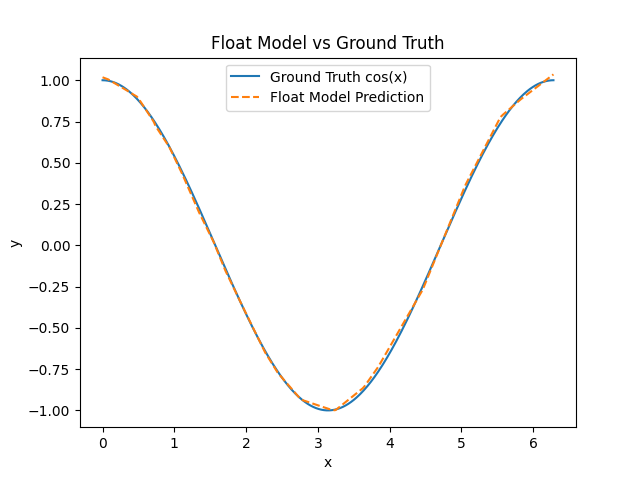
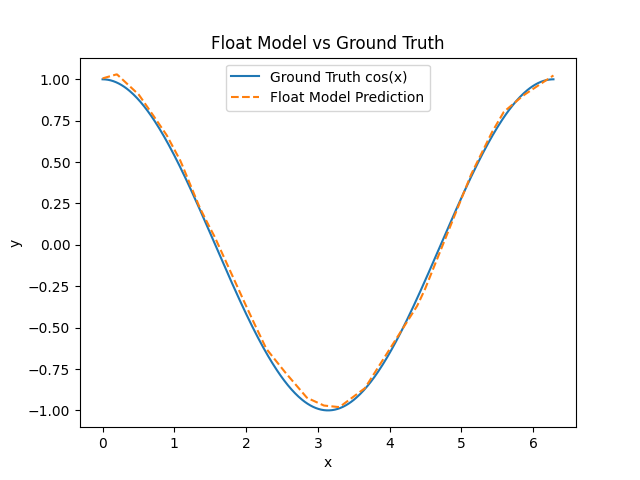
Update binary files: cosine_model.keras, data_splits.npz, float_predictions.png, and loss_curve.png

diff --git a/quantize_cosine.py b/quantize_cosine.py
@@ -1,0 +1,178 @@
+"""
+Member 2: TFLite conversion, full int8 quantization, evaluation, and comparison plots.
+Requires train_cosine.py outputs: cosine_model.keras, data_splits.npz
+"""
+import os
+os.environ["TF_CPP_MIN_LOG_LEVEL"] = "3"
+
+import numpy as np
+import matplotlib
+matplotlib.use("Agg")
+import matplotlib.pyplot as plt
+import tensorflow as tf
+
+MODEL_PATH = "cosine_model.keras"
+DATA_PATH = "data_splits.npz"
+FLOAT_TFLITE_PATH = "cosine_float.tflite"
+INT8_TFLITE_PATH = "cosine_int8.tflite"
+PLOTS_DIR = "plots"
+REPRESENTATIVE_SAMPLES = 100
+
+
+def load_artifacts():
+    if not os.path.isfile(MODEL_PATH):
+        raise FileNotFoundError(
+            f"{MODEL_PATH} not found. Run train_cosine.py first (Member 1)."
+        )
+    if not os.path.isfile(DATA_PATH):
+        raise FileNotFoundError(
+            f"{DATA_PATH} not found. Run train_cosine.py first (Member 1)."
+        )
+    model = tf.keras.models.load_model(MODEL_PATH)
+    data = np.load(DATA_PATH)
+    return model, data["x_train"], data["x_test"], data["y_test"]
+
+
+def convert_float_tflite(model):
+    converter = tf.lite.TFLiteConverter.from_keras_model(model)
+    return converter.convert()
+
+
+def convert_int8_tflite(model, x_train):
+    def representative_dataset():
+        indices = np.linspace(0, len(x_train) - 1, REPRESENTATIVE_SAMPLES, dtype=int)
+        for idx in indices:
+            sample = np.array([[x_train[idx]]], dtype=np.float32)
+            yield [sample]
+
+    converter = tf.lite.TFLiteConverter.from_keras_model(model)
+    converter.optimizations = [tf.lite.Optimize.DEFAULT]
+    converter.representative_dataset = representative_dataset
+    converter.target_spec.supported_ops = [tf.lite.OpsSet.TFLITE_BUILTINS_INT8]
+    converter.inference_input_type = tf.int8
+    converter.inference_output_type = tf.int8
+    return converter.convert()
+
+
+def run_interpreter(tflite_bytes, x_inputs):
+    interpreter = tf.lite.Interpreter(model_content=tflite_bytes)
+    interpreter.allocate_tensors()
+    input_details = interpreter.get_input_details()
+    output_details = interpreter.get_output_details()
+
+    in_scale, in_zero = input_details[0]["quantization"]
+    out_scale, out_zero = output_details[0]["quantization"]
+    is_quantized = input_details[0]["dtype"] == np.int8
+
+    predictions = []
+    for x in x_inputs:
+        x_arr = np.array([[x]], dtype=np.float32)
+        if is_quantized:
+            x_q = np.round(x_arr / in_scale + in_zero).astype(np.int8)
+            interpreter.set_tensor(input_details[0]["index"], x_q)
+        else:
+            interpreter.set_tensor(input_details[0]["index"], x_arr.astype(np.float32))
+
+        interpreter.invoke()
+        out = interpreter.get_tensor(output_details[0]["index"])
+        if is_quantized:
+            out = (out.astype(np.float32) - out_zero) * out_scale
+        predictions.append(float(out.flatten()[0]))
+
+    return np.array(predictions), {
+        "input_scale": in_scale,
+        "input_zero_point": in_zero,
+        "output_scale": out_scale,
+        "output_zero_point": out_zero,
+        "quantized": is_quantized,
+    }
+
+
+def main():
+    os.makedirs(PLOTS_DIR, exist_ok=True)
+    model, x_train, x_test, y_test = load_artifacts()
+
+    print("Converting Keras model to float TFLite...")
+    float_tflite = convert_float_tflite(model)
+    with open(FLOAT_TFLITE_PATH, "wb") as f:
+        f.write(float_tflite)
+    float_size = os.path.getsize(FLOAT_TFLITE_PATH)
+    print(f"Saved {FLOAT_TFLITE_PATH} ({float_size:,} bytes)")
+
+    print("Converting to full int8 TFLite (post-training quantization)...")
+    int8_tflite = convert_int8_tflite(model, x_train)
+    with open(INT8_TFLITE_PATH, "wb") as f:
+        f.write(int8_tflite)
+    int8_size = os.path.getsize(INT8_TFLITE_PATH)
+    print(f"Saved {INT8_TFLITE_PATH} ({int8_size:,} bytes)")
+    reduction = (1 - int8_size / float_size) * 100
+    print(f"Size reduction (float -> int8): {reduction:.1f}%")
+
+    print("\nEvaluating on held-out test set...")
+    y_pred_float, _ = run_interpreter(float_tflite, x_test)
+    y_pred_int8, int8_qparams = run_interpreter(int8_tflite, x_test)
+
+    mae_float = np.mean(np.abs(y_pred_float - y_test))
+    mae_int8 = np.mean(np.abs(y_pred_int8 - y_test))
+    mse_int8 = np.mean((y_pred_int8 - y_test) ** 2)
+
+    print(f"Float TFLite test MAE: {mae_float:.4f}")
+    print(f"Int8 TFLite test MAE:  {mae_int8:.4f}")
+    print(f"Int8 TFLite test MSE:  {mse_int8:.4f}")
+    print(
+        f"Int8 quantization params — "
+        f"input scale={int8_qparams['input_scale']:.6f}, "
+        f"input zero_point={int8_qparams['input_zero_point']}, "
+        f"output scale={int8_qparams['output_scale']:.6f}, "
+        f"output zero_point={int8_qparams['output_zero_point']}"
+    )
+
+    print("\nGenerating three-curve comparison plot...")
+    x_dense = np.linspace(0, 2 * np.pi, 500)
+    y_true = np.cos(x_dense)
+    y_float_curve, _ = run_interpreter(float_tflite, x_dense)
+    y_int8_curve, _ = run_interpreter(int8_tflite, x_dense)
+
+    plt.figure(figsize=(10, 5))
+    plt.plot(x_dense, y_true, label="Ground Truth cos(x)", linewidth=2)
+    plt.plot(
+        x_dense,
+        y_float_curve,
+        label="Float TFLite",
+        linestyle="--",
+        linewidth=1.5,
+    )
+    plt.plot(
+        x_dense,
+        y_int8_curve,
+        label="Int8 TFLite",
+        linestyle=":",
+        linewidth=1.5,
+    )
+    plt.xlabel("x")
+    plt.ylabel("y")
+    plt.title("Ground Truth vs Float vs Int8 TFLite Predictions")
+    plt.legend()
+    plt.tight_layout()
+    plot_path = os.path.join(PLOTS_DIR, "quantization_comparison.png")
+    plt.savefig(plot_path, dpi=150)
+    plt.close()
+    print(f"Saved {plot_path}")
+
+    with open(os.path.join(PLOTS_DIR, "quantization_metrics.txt"), "w") as f:
+        f.write(f"cosine_float.tflite bytes: {float_size}\n")
+        f.write(f"cosine_int8.tflite bytes: {int8_size}\n")
+        f.write(f"size_reduction_percent: {reduction:.2f}\n")
+        f.write(f"float_tflite_test_mae: {mae_float:.6f}\n")
+        f.write(f"int8_tflite_test_mae: {mae_int8:.6f}\n")
+        f.write(f"int8_tflite_test_mse: {mse_int8:.6f}\n")
+        f.write(f"input_scale: {int8_qparams['input_scale']}\n")
+        f.write(f"input_zero_point: {int8_qparams['input_zero_point']}\n")
+        f.write(f"output_scale: {int8_qparams['output_scale']}\n")
+        f.write(f"output_zero_point: {int8_qparams['output_zero_point']}\n")
+
+    print("\nQuantization pipeline complete.")
+
+
+if __name__ == "__main__":
+    main()
